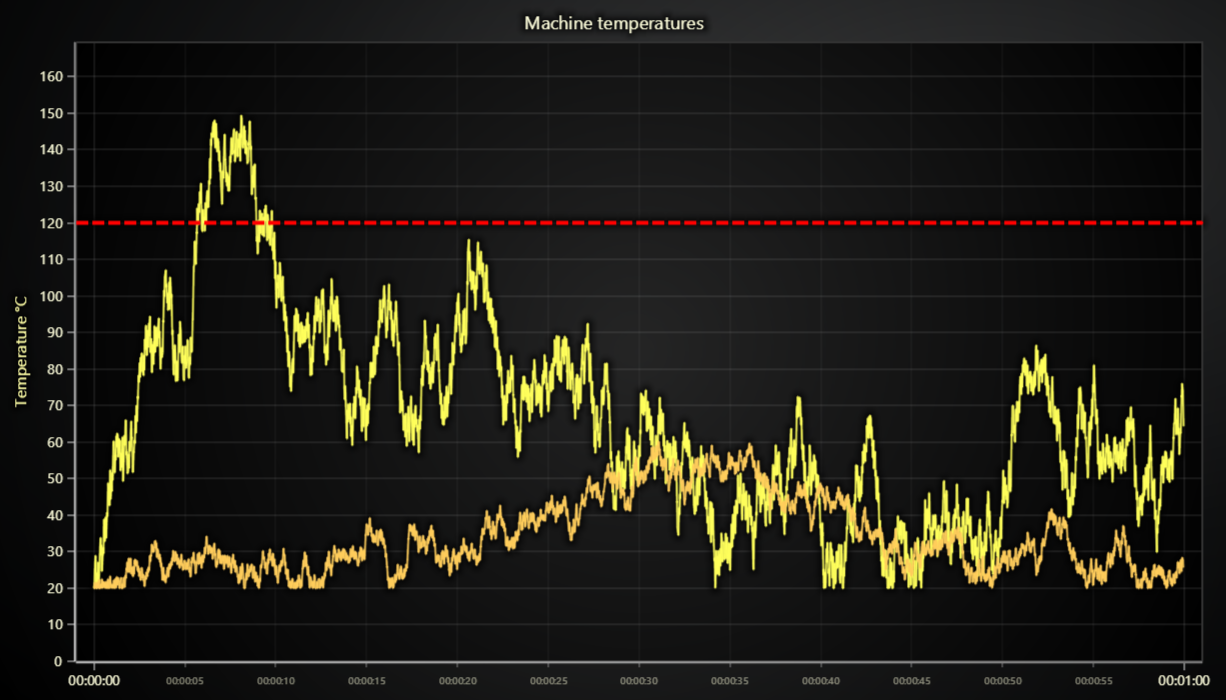
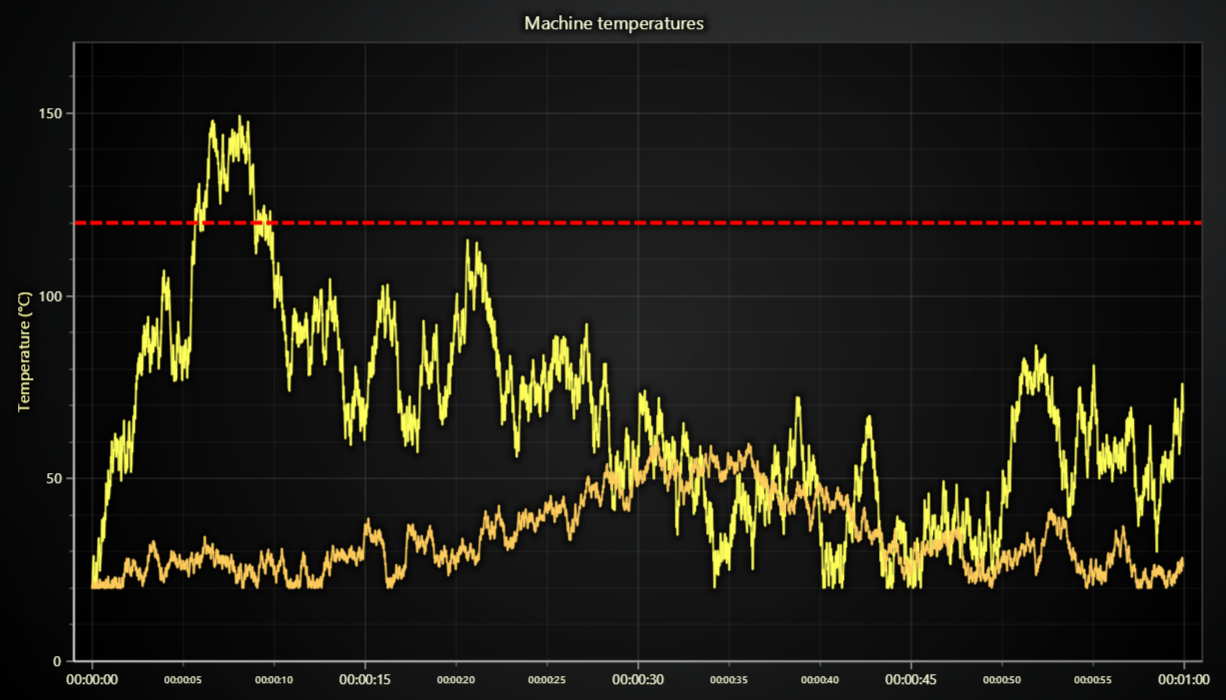
LCJS v7.0.1

diff --git a/src/index.js b/src/index.js
@@ -4,7 +4,7 @@
 
 const lcjs = require('@lightningchart/lcjs')
 
-const { lightningChart, Themes, AxisTickStrategies, DashedLine, SolidFill, StipplePatterns } = lcjs
+const { lightningChart, Themes, emptyFill, AxisTickStrategies, DashedLine, SolidFill, StipplePatterns } = lcjs
 
 const chart = lightningChart({
             resourcesBaseUrl: new URL(document.head.baseURI).origin + new URL(document.head.baseURI).pathname + 'resources/',
@@ -23,10 +23,7 @@ if (!exampleThemeProperties) {
 
 // Configure X Axis as Time
 const axisX = chart.getDefaultAxisX().setTickStrategy(AxisTickStrategies.Time)
-const axisY = chart
-    .getDefaultAxisY()
-    .setTitle('Temperature')
-    .setUnits('°C')
+const axisY = chart.getDefaultAxisY().setTitle('Temperature').setUnits('°C')
 
 Promise.all([
     fetch(new URL(document.head.baseURI).origin + new URL(document.head.baseURI).pathname + 'examples/assets/0036/temperature.json').then(
@@ -37,14 +34,16 @@ Promise.all([
     ),
 ]).then(([temperatureData, temperatureData2]) => {
     const seriesMachine1 = chart
-        .addLineSeries({ dataPattern: { pattern: 'ProgressiveX' } })
+        .addPointLineAreaSeries({ dataPattern: 'ProgressiveX' })
         .setName('Machine 1 temperature')
-        .add(temperatureData)
+        .appendJSON(temperatureData)
+        .setAreaFillStyle(emptyFill)
 
     const seriesMachine2 = chart
-        .addLineSeries({ dataPattern: { pattern: 'ProgressiveX' } })
+        .addPointLineAreaSeries({ dataPattern: 'ProgressiveX' })
         .setName('Machine 2 temperature')
-        .add(temperatureData2)
+        .appendJSON(temperatureData2)
+        .setAreaFillStyle(emptyFill)
 
     const thresholdLine = axisY
         .addConstantLine(true)
@@ -58,7 +57,7 @@ Promise.all([
             }),
         )
         // Prevent users from moving constant line with mouse interactions.
-        .setMouseInteractions(false)
+        .setPointerEvents(false)
 
     // Configure both Axis intervals manually to add some extra space around line series
     axisX.setInterval({

diff --git a/README.md b/README.md
@@ -56,9 +56,9 @@ Direct developer email support can be purchased through a [Support Plan][4] or b
 © LightningChart Ltd 2009-2022. All rights reserved.
 
 
-[XY cartesian chart]: https://lightningchart.com/js-charts/api-documentation/v6.1.0/classes/ChartXY.html
-[Line series]: https://lightningchart.com/js-charts/api-documentation/v6.1.0/classes/LineSeries.html
-[Axis]: https://lightningchart.com/js-charts/api-documentation/v6.1.0/classes/Axis.html
-[DashedLine]: https://lightningchart.com/js-charts/api-documentation/v6.1.0/classes/DashedLine.html
-[ConstantLine]: https://lightningchart.com/js-charts/api-documentation/v6.1.0/classes/ConstantLine.html
+[XY cartesian chart]: https://lightningchart.com/js-charts/api-documentation/v7.0.1/classes/ChartXY.html
+[Line series]: https://lightningchart.com/js-charts/api-documentation/v7.0.1/classes/LineSeries.html
+[Axis]: https://lightningchart.com/js-charts/api-documentation/v7.0.1/classes/Axis.html
+[DashedLine]: https://lightningchart.com/js-charts/api-documentation/v7.0.1/classes/DashedLine.html
+[ConstantLine]: https://lightningchart.com/js-charts/api-documentation/v7.0.1/classes/ConstantLine.html
 
